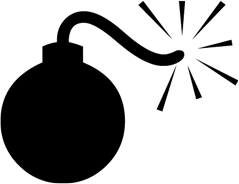
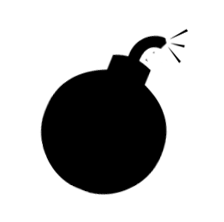
images size depending of screen size

diff --git a/WorldPanel.java b/WorldPanel.java
@@ -37,13 +37,15 @@ public class WorldPanel extends JPanel {
   }
 
   public void drawRobotsAndWaste(Graphics g, int offsetX, int offsetY) {
+    int imgWidth = getImgDim(offsetX);
+    int imgHeight = getImgDim(offsetY);
     for (int i = 0; i < world.height; i++) {
       for (int j = 0; j < world.width; j++) {
         if(!world.board[i][j].isFree()) {
           int id = world.board[i][j].robot.id;
           try {
             Image rb = ImageIO.read(new File("img/" + id + ".png"));
-            g.drawImage(rb, j*offsetX, i*offsetY, offsetX, offsetY, this);
+            g.drawImage(rb, j*offsetX+offsetX/8, i*offsetY+offsetY/8, imgWidth, imgHeight, this);
           } catch (IOException e) {
             e.printStackTrace();
           }
@@ -51,12 +53,16 @@ public class WorldPanel extends JPanel {
         else if(world.board[i][j].isPolluted()) {
          try {
             Image bomb = ImageIO.read(new File("img/bomb.png"));
-            g.drawImage(bomb, j*offsetX, i*offsetY, offsetX, offsetY, this);
+            g.drawImage(bomb, j*offsetX+offsetX/8, i*offsetY+offsetY/8, imgWidth, imgHeight, this);
           } catch (IOException e) {
             e.printStackTrace();
           }
         }
       }
     }
+  }
+
+  public int getImgDim(int offset) {
+    return offset-offset/4;
   }
 }
